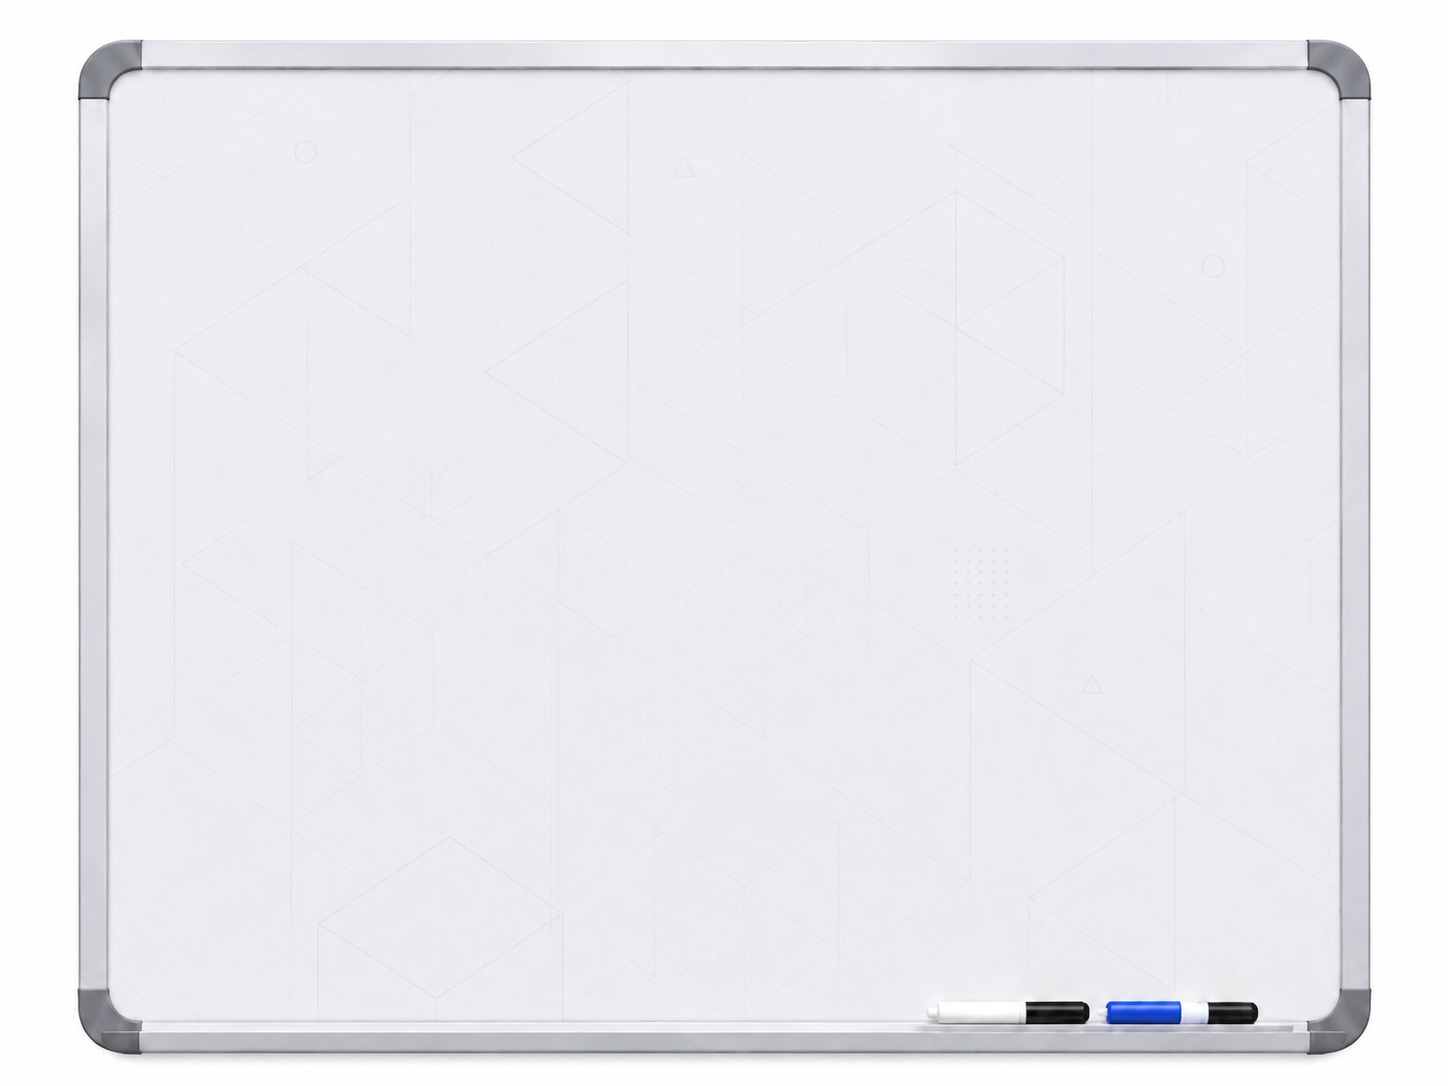
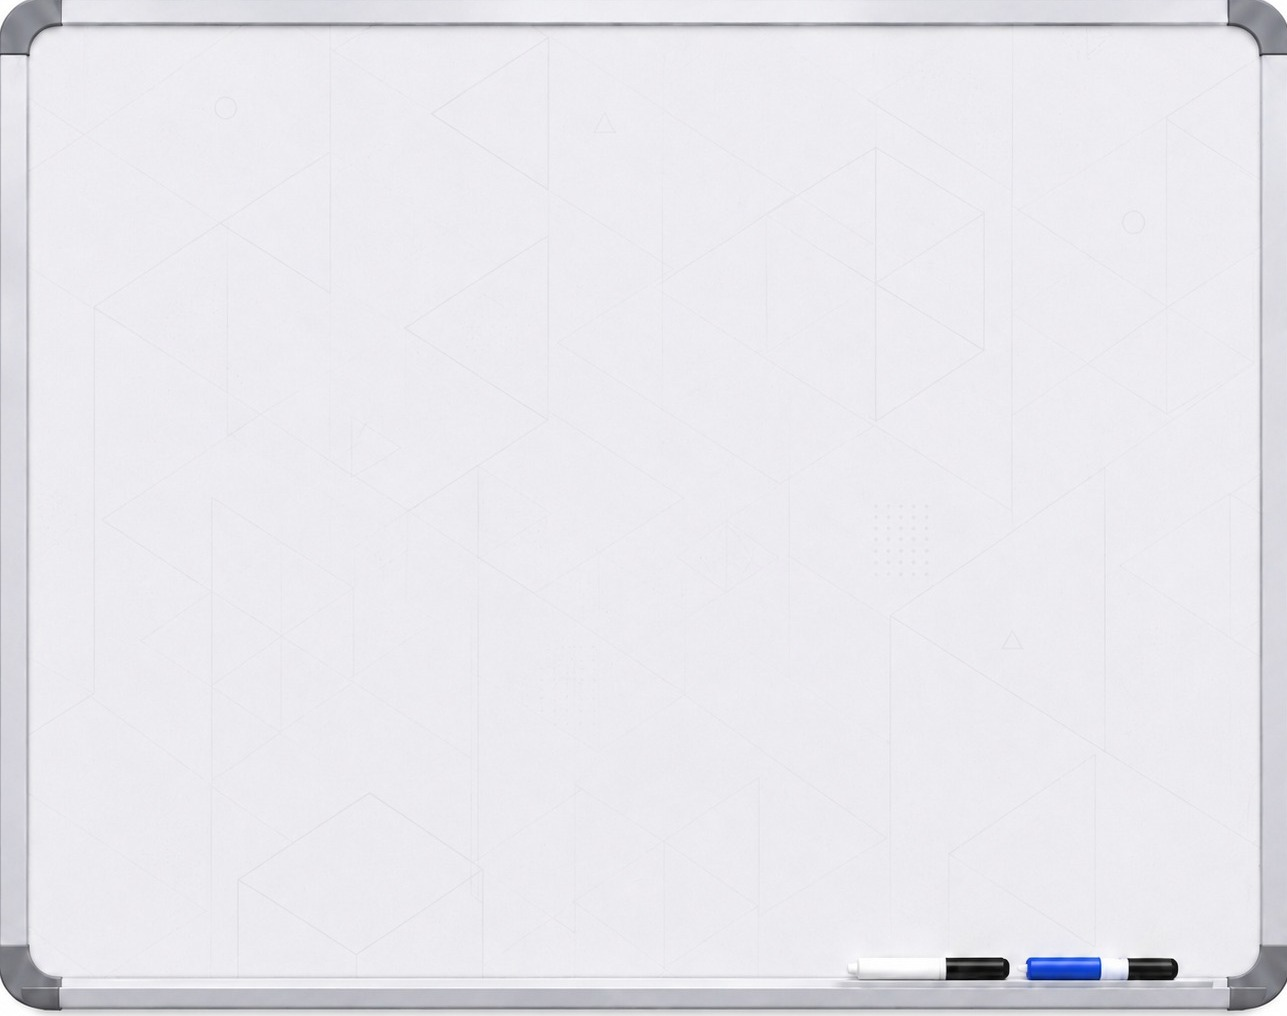
Crop the whiteboard tight to its frame instead of matching a fallback color
The "white rounded rectangle" the whiteboard appeared to sit inside of
wasn't a CSS layering issue (the #eef0fa fix in the previous PR) — it was
the source product photo itself: pixel-sampled the actual file and found
40-80px of plain white backdrop past the painted frame on every side,
baked into the photo. No background-color trick can hide a photo's own
pixels, and any crop generous enough to show the whole frame necessarily
showed that backdrop too.

Cropped the image tight to the frame (1448x1086 -> 1287x1016) so the
frame's own edges reach the image boundary on all sides, and updated the
narrow-phone stage aspect-ratio to match the new dimensions exactly so
background-size:cover fills the box without needing to crop past the
frame to do it.

Changed region(s): [[0.0, 0.0, 1.0, 1.0]]

diff --git a/index.html b/index.html
@@ -827,15 +827,17 @@
   }
   /* Both modes share one physical surface now: a rendered whiteboard, shown
      with background-size:cover so it fills the stage edge to edge with no
-     letterboxing. The render is a 4:3 photo (1448×1086); the vh-driven
-     height above pairs a narrow width with a tall box on a phone in
-     portrait, and cover has to zoom a 4:3 photo so far to fill a box that
-     skinny that the painted frame crops off every side at once. Rather than
-     shrink the photo to fit and show gaps around it (tried first — reads as
-     a small picture pasted on a blank card, not a surface filling the
-     stage), the fix is to stop asking a 4:3 photo to fill a non-4:3 box:
-     below 480px the stage's own shape switches to match the render's, so
-     cover never needs to crop the frame away in the first place. */
+     letterboxing. The render is cropped tight to its own painted frame
+     (1287×1016 — the original product photo carried ~40-80px of plain
+     white backdrop past the frame on every side, which no CSS trick could
+     hide, since it's the photo's own pixels: any crop that showed all of
+     the frame necessarily showed that backdrop too, reading as "a photo
+     pasted on a white card" rather than a surface filling the stage). The
+     vh-driven height above pairs a narrow width with a tall box on a phone
+     in portrait, and cover has to zoom the photo so far to fill a box that
+     skinny that the frame crops off every side at once — so below 480px
+     the stage's own shape switches to match the render's real aspect,
+     rather than the render's aspect trying to match an unrelated box. */
   .scene-region {
     position: absolute; inset: 0; overflow: hidden;
     touch-action: none; cursor: grab;
@@ -850,7 +852,7 @@
   }
   .scene-region:active { cursor: grabbing; }
   @media (max-width: 480px) {
-    .stage { height: auto; min-height: 0; max-height: none; aspect-ratio: 4 / 3; }
+    .stage { height: auto; min-height: 0; max-height: none; aspect-ratio: 1287 / 1016; }
   }
 
   /* Cal is docked above the board now — a fixed, always-visible spot rather

diff --git a/README.md b/README.md
@@ -58,7 +58,7 @@ Vanilla HTML/CSS/JS in a single file — no framework, no build, no network call
 
 - **The solid** is pure CSS 3D, generated from a net spec. Each face is a polygon in centimetre coordinates plus the edge it hinges on and the solid's dihedral angle there; folding rotates it by `180° − dihedral` about that edge using `rotate(θ) rotateX(φ) rotate(−θ)`, which works for any edge rather than just the axis-aligned ones a box needs. Fold *direction* is derived from which side of the directed hinge the face sits on, so specs never carry hand-tuned signs. Non-rectangles are cut out with `clip-path`, and badges/labels are anchored to the polygon **centroid** — on a right triangle the bounding-box centre can land outside the shape. Rotation is stored as a quaternion to avoid gimbal lock.
 - **Correctness is testable**: because every polygon corner gets a vertex dot, folding a net correctly means all dots for a shared vertex land on the same point. Clustering them and comparing the count to the solid's true vertex count verifies a net folds properly — that's how all six shapes are checked.
-- **One physical surface for both modes**: the staging area is a rendered whiteboard (`assets/whiteboard.jpg`) — folded and flat-net views now share it, rather than cross-fading between a dark "cosmic" gradient and a warm blueprint-paper one. Compressed from a 1.4MB source PNG to ~110KB via a headless-canvas JPEG re-encode (drawn to canvas, exported at quality 0.92) rather than shipped raw, since it's loaded on every activity screen.
+- **One physical surface for both modes**: the staging area is a rendered whiteboard (`assets/whiteboard.jpg`) — folded and flat-net views now share it, rather than cross-fading between a dark "cosmic" gradient and a warm blueprint-paper one. Compressed from a 1.4MB source PNG to ~110KB via a headless-canvas JPEG re-encode (drawn to canvas, exported at quality 0.92) rather than shipped raw, since it's loaded on every activity screen. The source product photo carried 40–80px of plain white backdrop past the painted frame on every side — invisible on its own, but no CSS trick could hide it once the photo sat on the app's periwinkle background, since it's baked into the photo's own pixels: any crop generous enough to show the whole frame showed that backdrop too, reading as a picture pasted on a white card rather than a surface filling the stage. Cropped tight to the frame instead (1287×1016), with the narrow-phone stage shape (below) matched to that exact ratio so `cover` never has to zoom past the frame's own edges to fill the box.
 - **Hub and activity are different places, each themed on its own**: the hub is a classroom — periwinkle wall, daylight from the upper left, white panels, deep-navy type, a dark Challenge shelf. The activity took the same "inside the activity" concept: a lighter periwinkle chrome around the whiteboard stage, navy ink, glass mode-tag. Neither theme shares tokens with the other (`--hub-*` vs `--board-*`) so retouching one can't silently drag the other. A rendered hub room (`assets/room.jpg`) sits behind it; it's attached at runtime and only revealed once it decodes, so a missing or slow-loading asset leaves the CSS wall showing rather than a broken image. Compressed the same way as the whiteboard — 1.7MB source PNG down to ~135KB via a headless-canvas JPEG re-encode — since a multi-megabyte background otherwise took over a second just to decode before it could fade in. Its desk-and-whiteboard focal point sits in the left third of a wide render, which crops beautifully on anything from a tablet up but centres on bare wall on the narrowest phones; a `max-width: 400px` override shifts the crop anchor left there so the desk stays in frame, caught by actually screenshotting the crop at several widths rather than assuming one anchor point would hold everywhere.
 - **Ink is measured, not assumed**: colours are sampled from the concept art rather than eyeballed, and ink is chosen by computing contrast against the actual background it will sit on — then verified by sampling the rendered pixel behind each heading. Fill and text accents are separate tokens for a concrete reason: the button blue clears 5.3:1 behind white type but only 2.8:1 as text on the wall, so one shared token would quietly fail.
 - **No single overloaded glyph**: the app used one four-pointed sparkle (✦) for everything — section headers, the "there's more here" flourish, the Challenge divider, even a lock replacement — which meant it carried no actual meaning. Each role now has its own mark, several reused deliberately: Home's section label matches its tab icon (⌂), Learn's does the same (⬡) and that hexagon is also what marks "there's deeper content here" everywhere it appears (the Learn-more button, its sheet badge, every interactive block's heading), and the net-mode tag's own ▦ is reused as the Learn card icon for the net sheet specifically, rather than inventing a fourth meaning for the same idea. The five Learn cards get five distinct icons tied to what each sheet actually does, not one icon repeated five times.
